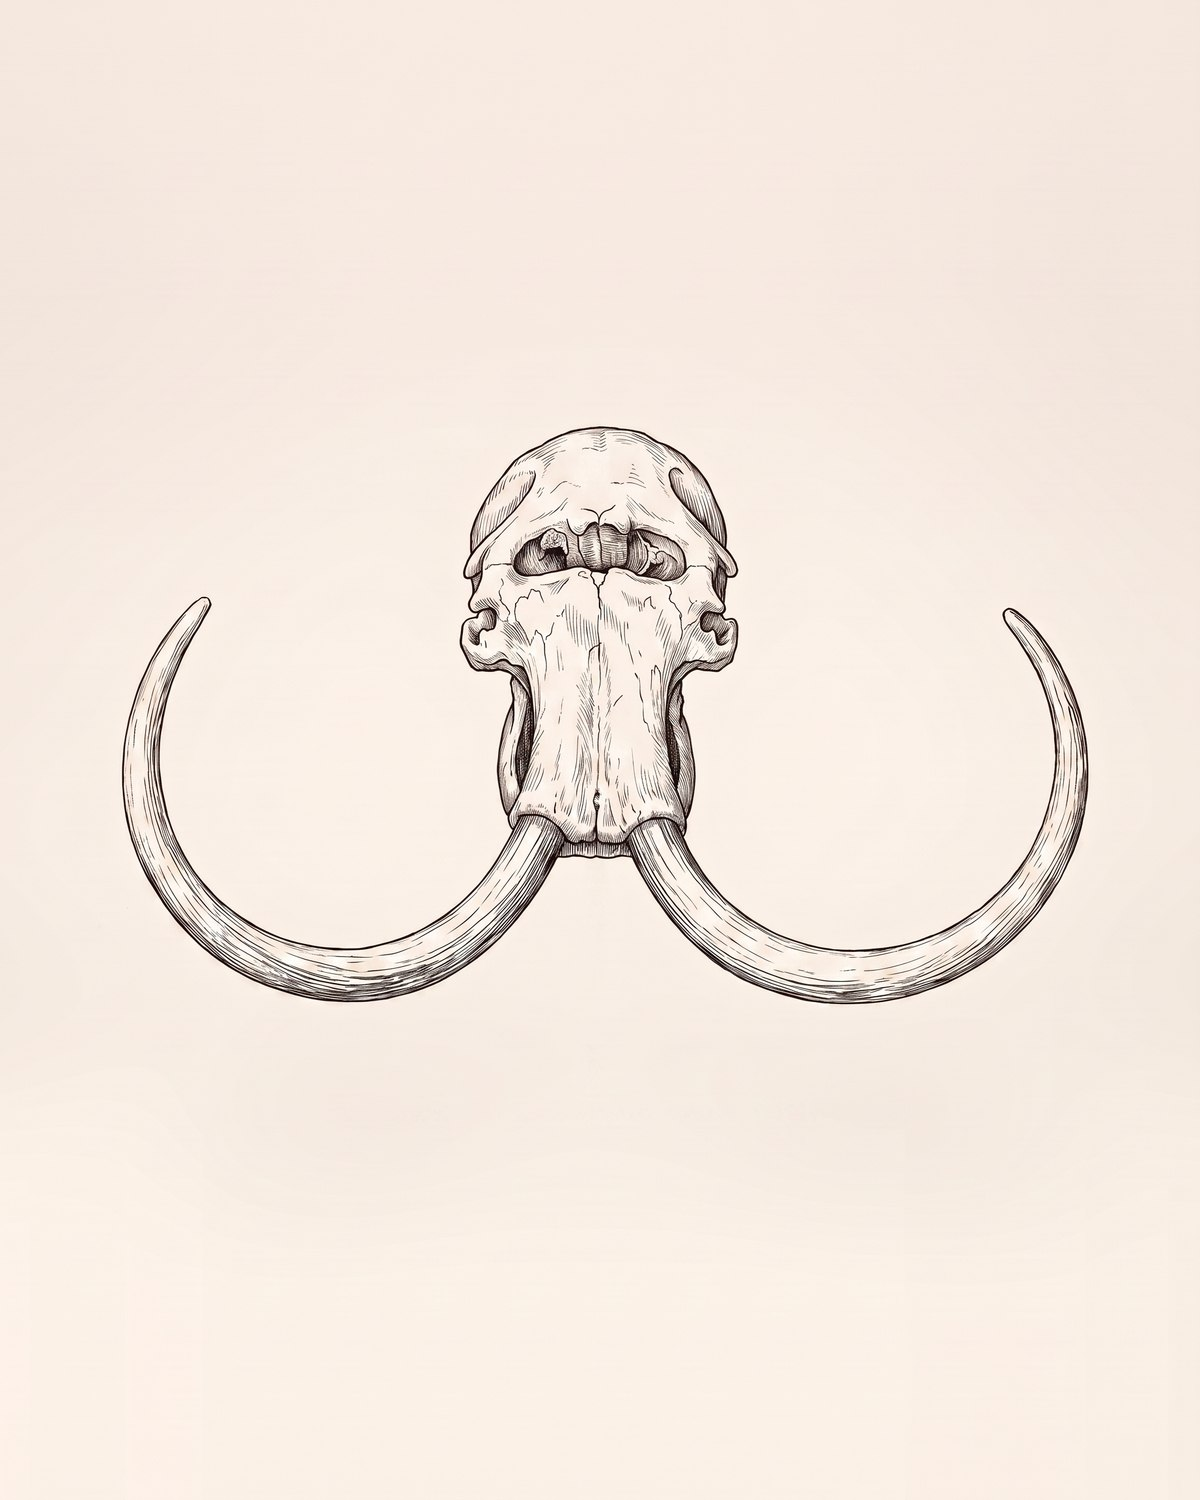
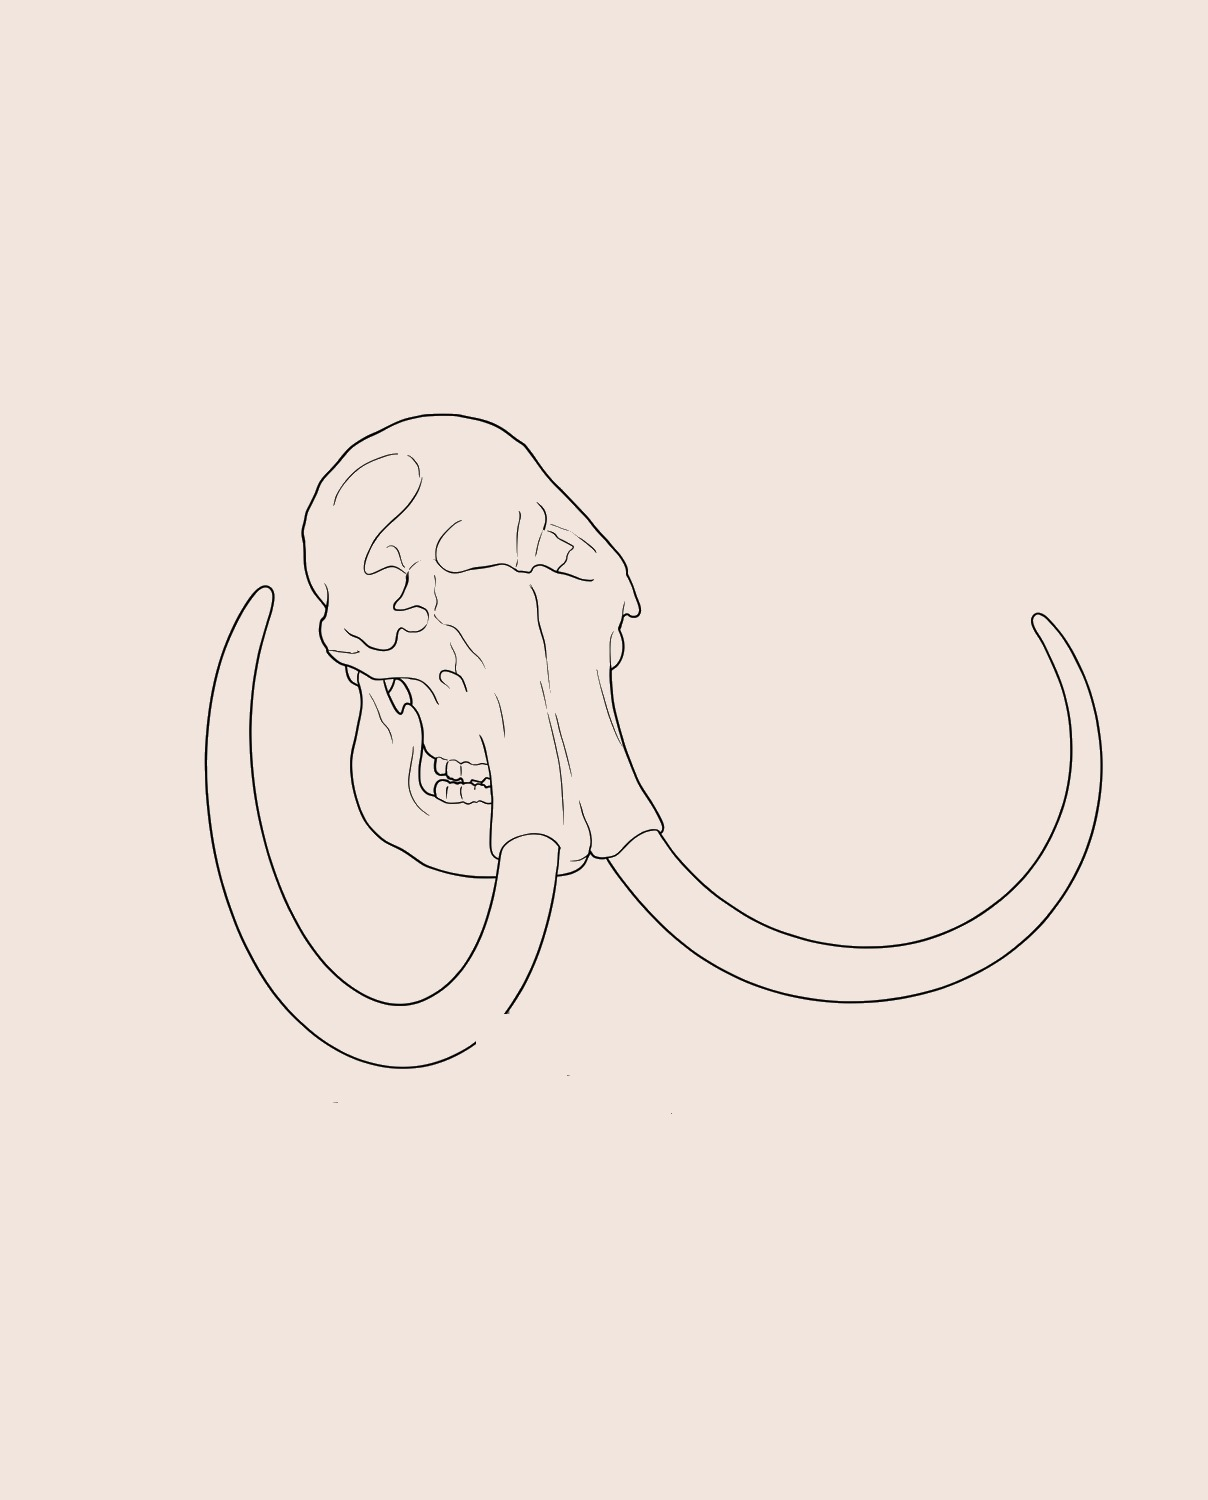
Череп мамонта переснят заново; хиро главной — динозавр в гостиной
Череп мамонта R–0605 был кадр в кадр повторением исходного снимка.
Пересобран как отдельная съёмка того же экземпляра: разворот в три
четверти, свет слева, тот же штырь и основание. Чертёж и «при жизни»
переснял под новый ракурс — иначе три состояния слайдера разъезжаются.

Хиро главной: первым слайдом вместо видео с бивнями поставлен интерьерный
проезд со скелетом пинакозавра — горизонтальная композиция переживает
широкий кроп, и это сразу читается как «динозавр в жилой комнате».
Текст переписан на эту мысль: «Скелет динозавра в гостиной, метеорит на
консоли, аммонит на книжной полке… рассчитано жить рядом с вами — а не за
музейным стеклом». Вторая кнопка ведёт теперь в «Интерьеры», а не в
консьерж — ближе к обещанию слайда.

diff --git a/02_site_v1_gallery/index.html b/02_site_v1_gallery/index.html
@@ -95,12 +95,12 @@
 <!-- HERO-КАРУСЕЛЬ -->
 <header class="hcar" id="hcar">
   <div class="slide dark on">
-    <div class="media"><video muted loop playsinline preload="auto" poster="../shared/img/hm_tusks.jpg" data-src="../shared/img/promo/hero_museum_tusks.mp4"></video></div>
+    <div class="media"><video muted loop playsinline preload="auto" poster="../shared/img/int_ph_pinacosaurus.jpg" data-src="../shared/img/intv_pinacosaurus.mp4"></video></div>
     <div class="in">
-      <div class="label">Природа, Искусство, Вечность</div>
+      <div class="label">Экспонат в вашем доме</div>
       <h1>Роскошь<br>вне <em>времени</em></h1>
-      <p>Редкие свидетельства глубокого времени — динозавры, метеориты и минералы. Показаны такими, какие они есть.</p>
-      <div class="btn-row on-dark"><a class="btn btn-solid" href="catalog.html">Смотреть каталог</a><a class="btn" href="maison.html#concierge">Персональный подбор</a></div>
+      <p>Скелет динозавра в гостиной, метеорит на консоли, аммонит на книжной полке. Всё, что дом находит и готовит, рассчитано жить рядом с вами — а не за музейным стеклом.</p>
+      <div class="btn-row on-dark"><a class="btn btn-solid" href="catalog.html">Смотреть каталог</a><a class="btn" href="interiors.html">В интерьере</a></div>
     </div>
   </div>
   <div class="slide dark">
